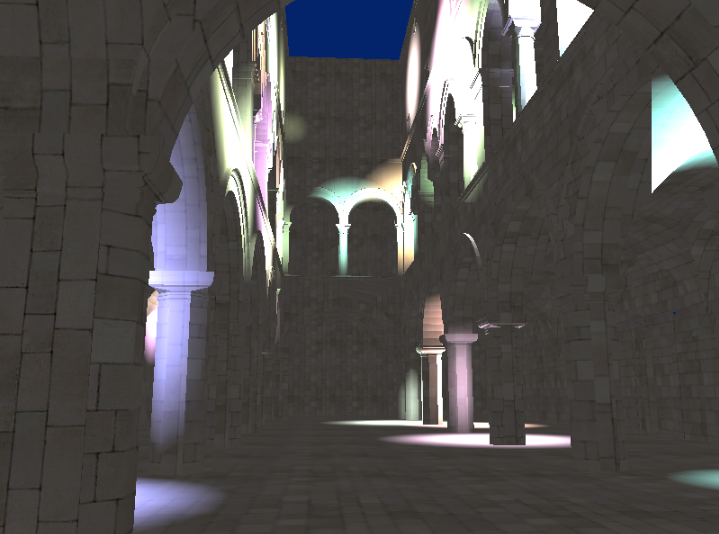
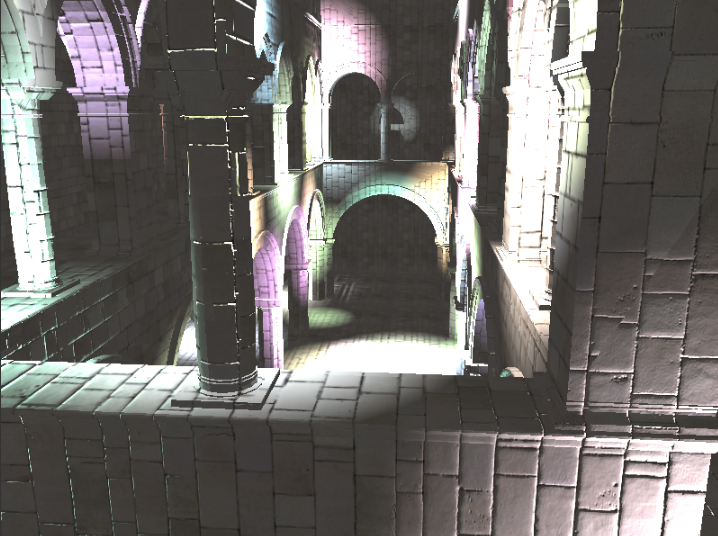
toon outlines

diff --git a/js/deferredRender.js b/js/deferredRender.js
@@ -123,10 +123,9 @@
         }
         
 
+        gl.enable(gl.SCISSOR_TEST);
     
         for (var i = 0; i < R.lights.length; i++) {
-
-            gl.enable(gl.SCISSOR_TEST);
             var light = R.lights[i];
             var sc = getScissorForLight(state.viewMat, state.projMat, light);
 
@@ -142,10 +141,14 @@
                     gl.uniform3f(R.prog_ToonShading.u_cameraPos, 
                     state.cameraPos[0], state.cameraPos[1], state.cameraPos[2]);
                     gl.uniform1f(R.prog_ToonShading.u_lightRad, light.rad);
+                    gl.uniform1f(R.prog_ToonShading.u_width, width);
+                    gl.uniform1f(R.prog_ToonShading.u_height, height);
+
                     if(cfg.debugScissor) {
                         renderFullScreenQuad(R.progRed);
                     }
                     renderFullScreenQuad(R.prog_ToonShading);
+
                 } else {
                     gl.uniform3f(R.prog_BlinnPhong_PointLight.u_lightPos, 
                     light.pos[0], light.pos[1], light.pos[2]);
@@ -164,10 +167,9 @@
                 
                 
             }
-            gl.disable(gl.SCISSOR_TEST);
 
         }
-
+         gl.disable(gl.SCISSOR_TEST);
         gl.disable(gl.BLEND);
     };
 
@@ -193,7 +195,7 @@
         // * Unbind any existing framebuffer (if there are no more passes)
         gl.bindFramebuffer(gl.FRAMEBUFFER, null);
 
-        // * Clear the framebuffer depth to 1.0
+         // * Clear the framebuffer depth to 1.0
         gl.clearDepth(1.0);
         gl.clear(gl.DEPTH_BUFFER_BIT);
 
@@ -208,9 +210,10 @@
         
         // Configure the R.progPost1.u_color uniform to point at texture unit 0
         gl.uniform1i(R.progPost1.u_color, 0);
-
+        
         // * Render a fullscreen quad to perform shading on
         renderFullScreenQuad(R.progPost1);
+
     };
 
     var renderFullScreenQuad = (function() {

diff --git a/js/deferredSetup.js b/js/deferredSetup.js
@@ -161,13 +161,20 @@
             R.prog_Debug = p;
         });
 
+    /*        loadDeferredProgram('toon_edge', function(p) {
+            p.u_width    = gl.getUniformLocation(p.prog, 'u_width');
+            p.u_height   = gl.getUniformLocation(p.prog, 'u_height');
+            // Save the object into this variable for access later
+            R.prog_toonEdge = p;
+        });*/
+
         loadPostProgram('one', function(p) {
             p.u_color    = gl.getUniformLocation(p.prog, 'u_color');
             // Save the object into this variable for access later
             R.progPost1 = p;
         });
 
-        // TODO: If you add more passes, load and set up their shader programs.
+        
     };
 
     var loadDeferredProgram = function(name, callback) {
